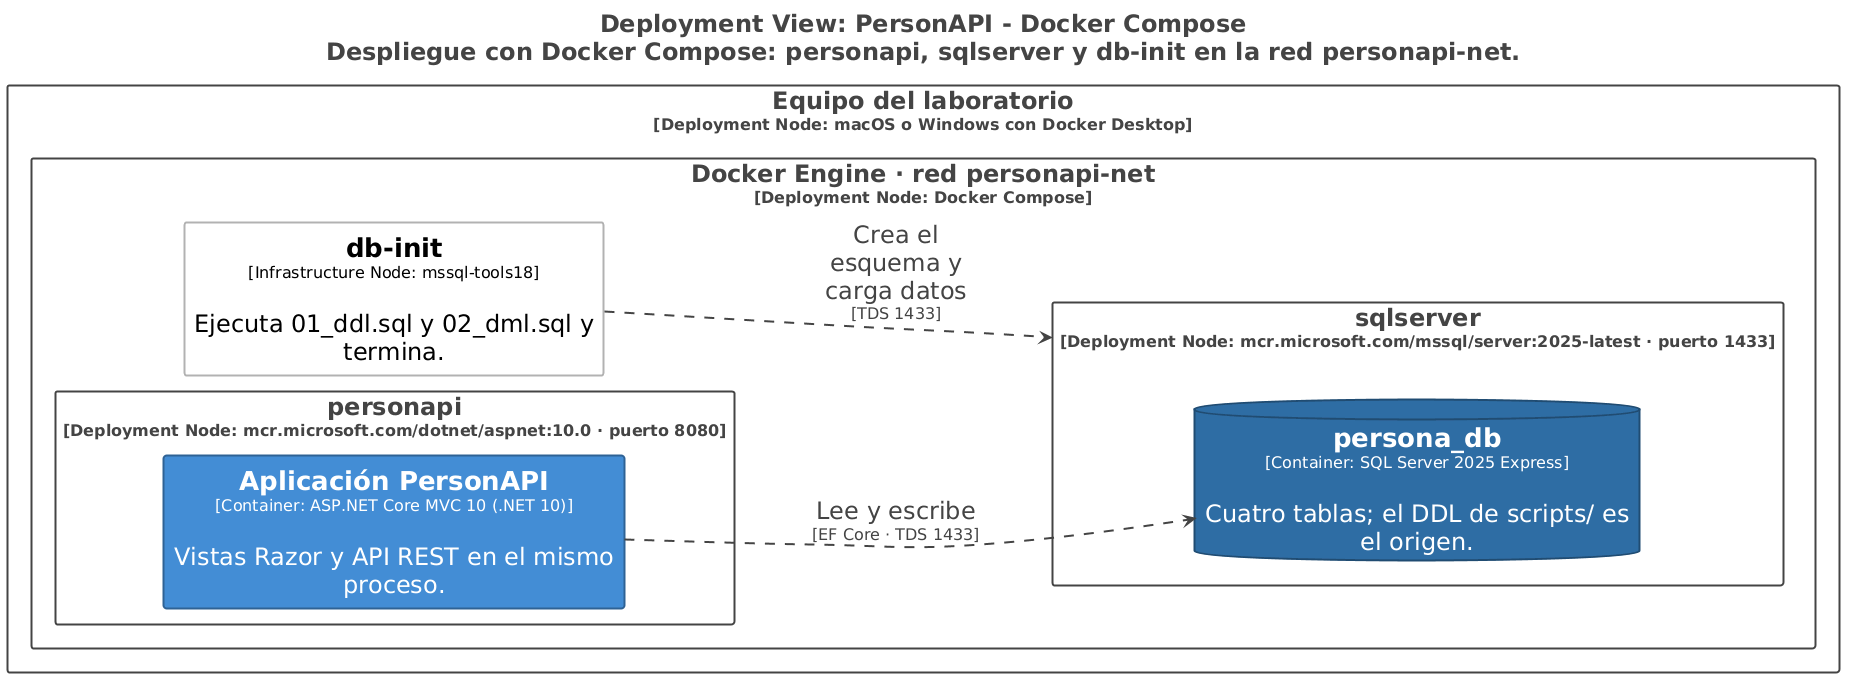
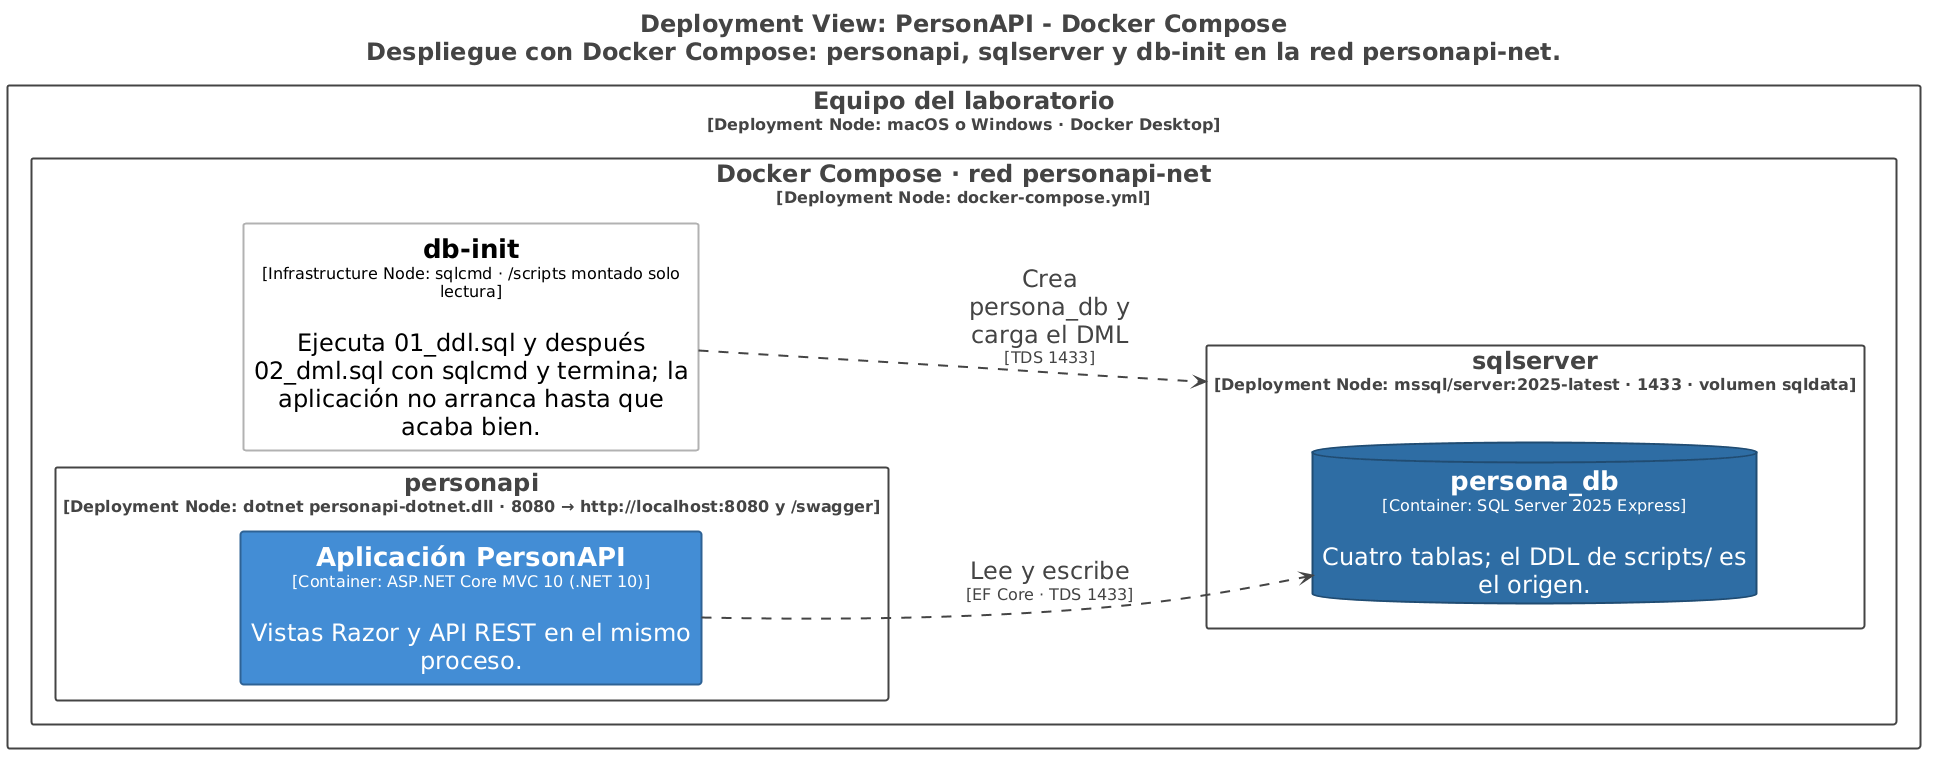
docs(arquitectura): añade el nivel 4 y detalla el despliegue [LAB-16]
Faltaba el cuarto nivel de C4 y el de despliegue no decía lo suficiente para
reproducirlo.

- c4-c4-codigo-personaservice.puml: zoom al código de un componente concreto,
  PersonaService, con las firmas reales de su interfaz, sus tres repositorios,
  ServiceResult con su enumeración y los dos DTO. El título dice de qué
  componente es, porque el nivel 4 es siempre un ejemplo: los otros tres
  servicios tienen la misma forma. Va en PlantUML y no en el .dsl porque
  Structurizr no dibuja el nivel de código; render.sh lo genera igual.
- El despliegue declara ahora la orden que lo levanta, el Dockerfile de dos
  etapas, el ejecutable, las URL publicadas, el volumen de datos, de dónde
  sale la contraseña y por qué la aplicación espera a db-init.

Al dibujar el nivel 4 apareció una diferencia con el informe, que se reporta
sin tocarlo: su diagrama de clases da a PersonaService un solo repositorio,
cuando el código tiene tres, porque comprueba teléfonos y estudios antes de
permitir el borrado.

Changed region(s): [[0.0, 0.0, 1.0, 1.0]]

diff --git a/docs/wiki/02-arquitectura/diagramas/README.md b/docs/wiki/02-arquitectura/diagramas/README.md
@@ -7,7 +7,8 @@ son material derivado y se regeneran a partir de él.
 
 | Archivo | Contenido |
 |---|---|
-| [`personapi-c4.dsl`](personapi-c4.dsl) | Modelo C4 completo en Structurizr DSL: contexto, contenedores, componentes, recortes por canal y despliegue |
+| [`personapi-c4.dsl`](personapi-c4.dsl) | Modelo C4 en Structurizr DSL: contexto, contenedores, componentes, tres recortes y despliegue |
+| [`c4-c4-codigo-personaservice.puml`](c4-c4-codigo-personaservice.puml) | **Nivel 4 (código)** del componente `PersonaService`, en PlantUML: Structurizr no dibuja ese nivel |
 | [`render.sh`](render.sh) | Regenera las seis imágenes desde el `.dsl`: valida, exporta a PlantUML y convierte a PNG con los nombres del informe |
 
 ## Qué se dibuja
@@ -31,7 +32,8 @@ y su código o su historia está más abajo.
 | `c4-c3-componentes-canal-web` | C4 3 · Recorte | Solo el canal MVC, para explicarlo sin el ruido del otro canal |
 | `c4-c3-componentes-canal-json` | C4 3 · Recorte | Solo el canal REST, con Swagger y el resultado discriminado |
 | `c4-c3-componentes-arranque` | C4 3 · Recorte | La composición de SDD §4: qué registra `Program.cs` y con qué ciclo de vida |
-| `c4-despliegue` | Despliegue | Los tres servicios de `docker-compose.yml` (`personapi`, `sqlserver`, `db-init`) en la red `personapi-net` |
+| `c4-despliegue` | Despliegue | Los tres servicios de `docker-compose.yml` con su imagen, puerto, volumen y las URL que quedan publicadas |
+| `c4-c4-codigo-personaservice` | C4 4 · Código | Zoom a **un** componente del nivel 3: `PersonaService`, con las firmas reales, sus tres repositorios y `ServiceResult` |
 
 Los dos recortes existen porque la vista completa tiene 22 componentes: sirven para la
 sustentación, mientras `c4-c3-componentes` es la que va al informe.
@@ -128,6 +130,12 @@ el pie de figura de `main.tex` dice «el usuario, el monolito y SQL Server `pers
 como único almacén», y el primer criterio de HU-016 repite esa frase. Quien decide es el
 modelo C4, no el pie: **la diferencia está reportada** a quien mantiene el informe y al
 backlog, y se corrige allí, no redibujando el diagrama.
+
+**Solo se dibujan llamadas reales.** Lo que el framework aplica por convención —el filtro
+de antiforgery— y los tipos de datos que viajan entre capas —`ServiceResult`, DTOs,
+ViewModels, entidades— no son flechas: se dicen en la descripción de quien los usa. Pintarlos
+hacía parecer que el sistema tiene más acoplamiento del que tiene: el nivel 3 pasó de unas
+sesenta flechas a treinta y seis, y ninguna de las que quedan es decorativa.
 
 **Las vistas, los DTOs y las entidades no son componentes.** Son plantillas y estructuras
 de datos, así que salieron del nivel 3. En su lugar están las piezas que sí tienen
